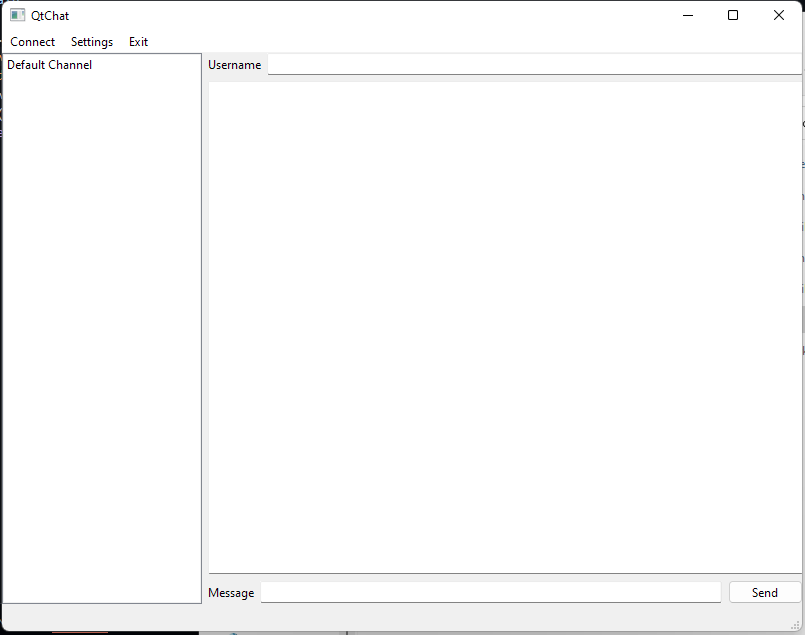
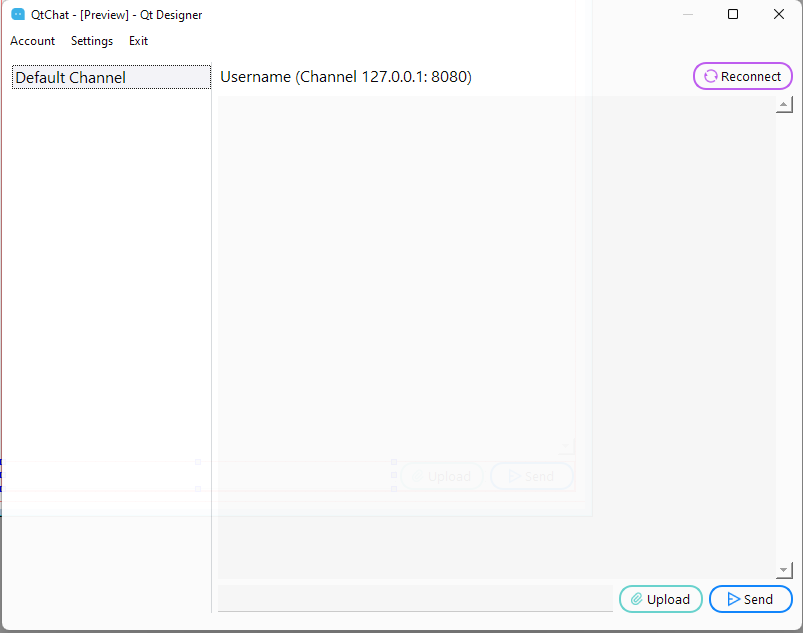
Update UI

Changed region(s): [[0.0, 0.0, 1.0, 1.0], [0.0, 0.0, 0.2491, 0.9605], [0.9029, 0.0, 0.934, 0.03]]

diff --git a/qt/main_window.py b/qt/main_window.py
@@ -1,4 +1,4 @@
-# Form implementation generated from reading ui file '.\main_window.ui'
+# Form implementation generated from reading ui file 'main_window.ui'
 #
 # Created by: PyQt6 UI code generator 6.1.0
 #
@@ -13,16 +13,27 @@ class Ui_MainWindow(object):
     def setupUi(self, MainWindow):
         MainWindow.setObjectName("MainWindow")
         MainWindow.resize(800, 600)
+        MainWindow.setMouseTracking(False)
+        icon = QtGui.QIcon()
+        icon.addPixmap(QtGui.QPixmap(":/main_prefix/message-3-fill.png"), QtGui.QIcon.Mode.Normal, QtGui.QIcon.State.Off)
+        MainWindow.setWindowIcon(icon)
+        MainWindow.setWindowOpacity(0.96)
+        MainWindow.setStyleSheet("background: #fff;")
         self.centralwidget = QtWidgets.QWidget(MainWindow)
         self.centralwidget.setObjectName("centralwidget")
         self.horizontalLayoutWidget = QtWidgets.QWidget(self.centralwidget)
-        self.horizontalLayoutWidget.setGeometry(QtCore.QRect(0, 0, 801, 551))
+        self.horizontalLayoutWidget.setGeometry(QtCore.QRect(0, 0, 801, 571))
         self.horizontalLayoutWidget.setObjectName("horizontalLayoutWidget")
         self.horizontalLayout = QtWidgets.QHBoxLayout(self.horizontalLayoutWidget)
-        self.horizontalLayout.setContentsMargins(0, 0, 0, 0)
+        self.horizontalLayout.setContentsMargins(10, 10, 10, 10)
         self.horizontalLayout.setObjectName("horizontalLayout")
         self.listWidget = QtWidgets.QListWidget(self.horizontalLayoutWidget)
         self.listWidget.setMaximumSize(QtCore.QSize(200, 16777215))
+        font = QtGui.QFont()
+        font.setPointSize(12)
+        self.listWidget.setFont(font)
+        self.listWidget.setStyleSheet("border: none;\n"
+"font-size: 9;")
         self.listWidget.setObjectName("listWidget")
         item = QtWidgets.QListWidgetItem()
         self.listWidget.addItem(item)
@@ -31,24 +42,46 @@ class Ui_MainWindow(object):
         self.verticalLayout.setObjectName("verticalLayout")
         self.horizontalLayout_3 = QtWidgets.QHBoxLayout()
         self.horizontalLayout_3.setObjectName("horizontalLayout_3")
-        self.label_2 = QtWidgets.QLabel(self.horizontalLayoutWidget)
-        self.label_2.setObjectName("label_2")
-        self.horizontalLayout_3.addWidget(self.label_2)
-        self.username = QtWidgets.QLineEdit(self.horizontalLayoutWidget)
-        self.username.setObjectName("username")
-        self.horizontalLayout_3.addWidget(self.username)
+        self.account_info = QtWidgets.QLineEdit(self.horizontalLayoutWidget)
+        font = QtGui.QFont()
+        font.setPointSize(12)
+        self.account_info.setFont(font)
+        self.account_info.setStyleSheet("border: none")
+        self.account_info.setReadOnly(True)
+        self.account_info.setObjectName("account_info")
+        self.horizontalLayout_3.addWidget(self.account_info)
+        self.reconnect = QtWidgets.QPushButton(self.horizontalLayoutWidget)
+        font = QtGui.QFont()
+        font.setPointSize(10)
+        self.reconnect.setFont(font)
+        self.reconnect.setStyleSheet("#reconnect {\n"
+"    border: 2px solid #bf5af2;\n"
+"    border-radius: 1em;\n"
+"    padding: .3em;\n"
+"}")
+        icon1 = QtGui.QIcon()
+        icon1.addPixmap(QtGui.QPixmap(":/main_prefix/refresh-line.png"), QtGui.QIcon.Mode.Normal, QtGui.QIcon.State.Off)
+        self.reconnect.setIcon(icon1)
+        self.reconnect.setObjectName("reconnect")
+        self.horizontalLayout_3.addWidget(self.reconnect)
         self.verticalLayout.addLayout(self.horizontalLayout_3)
         self.textEdit = QtWidgets.QTextEdit(self.horizontalLayoutWidget)
+        font = QtGui.QFont()
+        font.setPointSize(12)
+        self.textEdit.setFont(font)
         self.textEdit.setObjectName("textEdit")
         self.verticalLayout.addWidget(self.textEdit)
         self.horizontalLayout_2 = QtWidgets.QHBoxLayout()
         self.horizontalLayout_2.setObjectName("horizontalLayout_2")
-        self.label = QtWidgets.QLabel(self.horizontalLayoutWidget)
-        self.label.setObjectName("label")
-        self.horizontalLayout_2.addWidget(self.label)
         self.lineEdit = QtWidgets.QLineEdit(self.horizontalLayoutWidget)
         self.lineEdit.setObjectName("lineEdit")
         self.horizontalLayout_2.addWidget(self.lineEdit)
+        self.upload = QtWidgets.QPushButton(self.horizontalLayoutWidget)
+        icon2 = QtGui.QIcon()
+        icon2.addPixmap(QtGui.QPixmap(":/main_prefix/attachment-2.png"), QtGui.QIcon.Mode.Normal, QtGui.QIcon.State.Off)
+        self.upload.setIcon(icon2)
+        self.upload.setObjectName("upload")
+        self.horizontalLayout_2.addWidget(self.upload)
         self.send = QtWidgets.QPushButton(self.horizontalLayoutWidget)
         self.send.setObjectName("send")
         self.horizontalLayout_2.addWidget(self.send)
@@ -65,15 +98,21 @@ class Ui_MainWindow(object):
         self.menuExit = QtWidgets.QMenu(self.menubar)
         self.menuExit.setObjectName("menuExit")
         MainWindow.setMenuBar(self.menubar)
-        self.statusbar = QtWidgets.QStatusBar(MainWindow)
-        self.statusbar.setObjectName("statusbar")
-        MainWindow.setStatusBar(self.statusbar)
         self.actionSettings = QtGui.QAction(MainWindow)
         self.actionSettings.setObjectName("actionSettings")
         self.actionConnect = QtGui.QAction(MainWindow)
         self.actionConnect.setObjectName("actionConnect")
         self.actionSettings_2 = QtGui.QAction(MainWindow)
         self.actionSettings_2.setObjectName("actionSettings_2")
+        self.actionLogin = QtGui.QAction(MainWindow)
+        self.actionLogin.setObjectName("actionLogin")
+        self.actionLogout = QtGui.QAction(MainWindow)
+        self.actionLogout.setObjectName("actionLogout")
+        self.actionSwitch_user = QtGui.QAction(MainWindow)
+        self.actionSwitch_user.setObjectName("actionSwitch_user")
+        self.menuFile.addAction(self.actionLogin)
+        self.menuFile.addAction(self.actionLogout)
+        self.menuFile.addAction(self.actionSwitch_user)
         self.menubar.addAction(self.menuFile.menuAction())
         self.menubar.addAction(self.menuSettings.menuAction())
         self.menubar.addAction(self.menuExit.menuAction())
@@ -89,15 +128,19 @@ class Ui_MainWindow(object):
         item = self.listWidget.item(0)
         item.setText(_translate("MainWindow", "Default Channel"))
         self.listWidget.setSortingEnabled(__sortingEnabled)
-        self.label_2.setText(_translate("MainWindow", "Username"))
-        self.label.setText(_translate("MainWindow", "Message"))
+        self.account_info.setText(_translate("MainWindow", "Username (Channel 127.0.0.1: 8080)"))
+        self.reconnect.setText(_translate("MainWindow", "Reconnect"))
+        self.upload.setText(_translate("MainWindow", "Upload"))
         self.send.setText(_translate("MainWindow", "Send"))
-        self.menuFile.setTitle(_translate("MainWindow", "Connect"))
+        self.menuFile.setTitle(_translate("MainWindow", "Account"))
         self.menuSettings.setTitle(_translate("MainWindow", "Settings"))
         self.menuExit.setTitle(_translate("MainWindow", "Exit"))
         self.actionSettings.setText(_translate("MainWindow", "Settings"))
         self.actionConnect.setText(_translate("MainWindow", "Connect"))
         self.actionSettings_2.setText(_translate("MainWindow", "Settings"))
+        self.actionLogin.setText(_translate("MainWindow", "Login"))
+        self.actionLogout.setText(_translate("MainWindow", "Logout"))
+        self.actionSwitch_user.setText(_translate("MainWindow", "Switch user"))
 
 
 if __name__ == "__main__":
